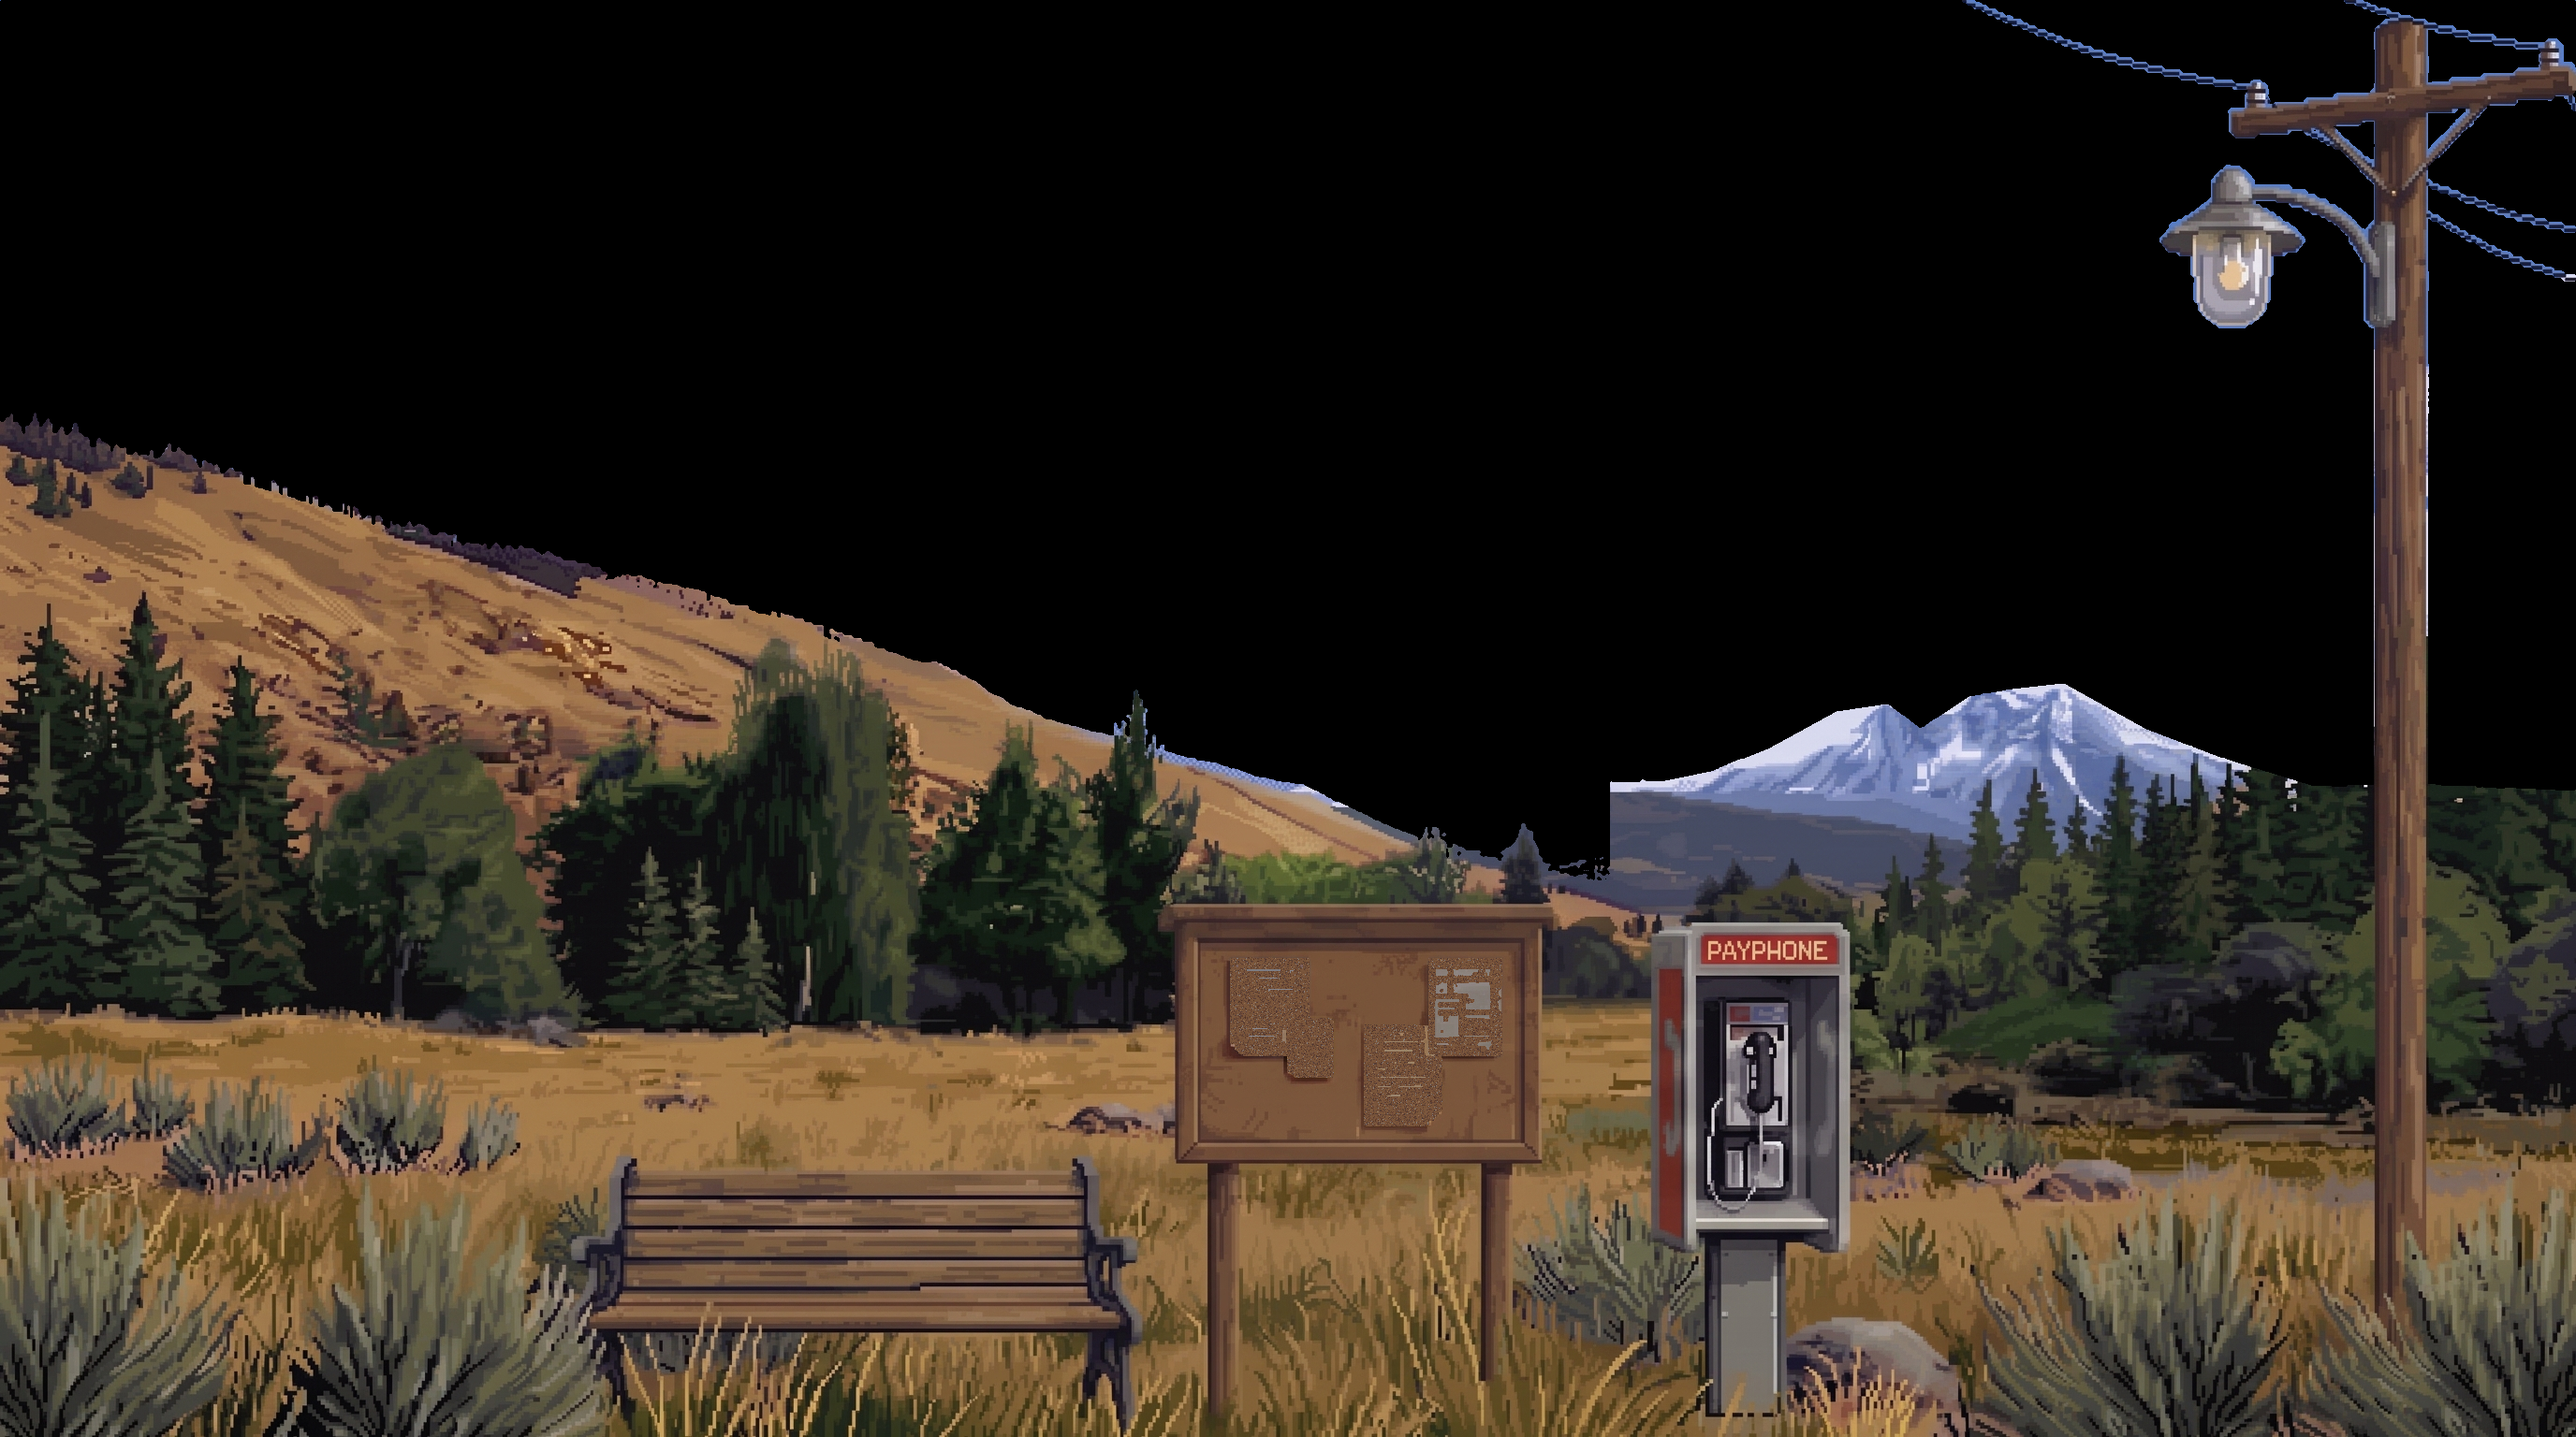
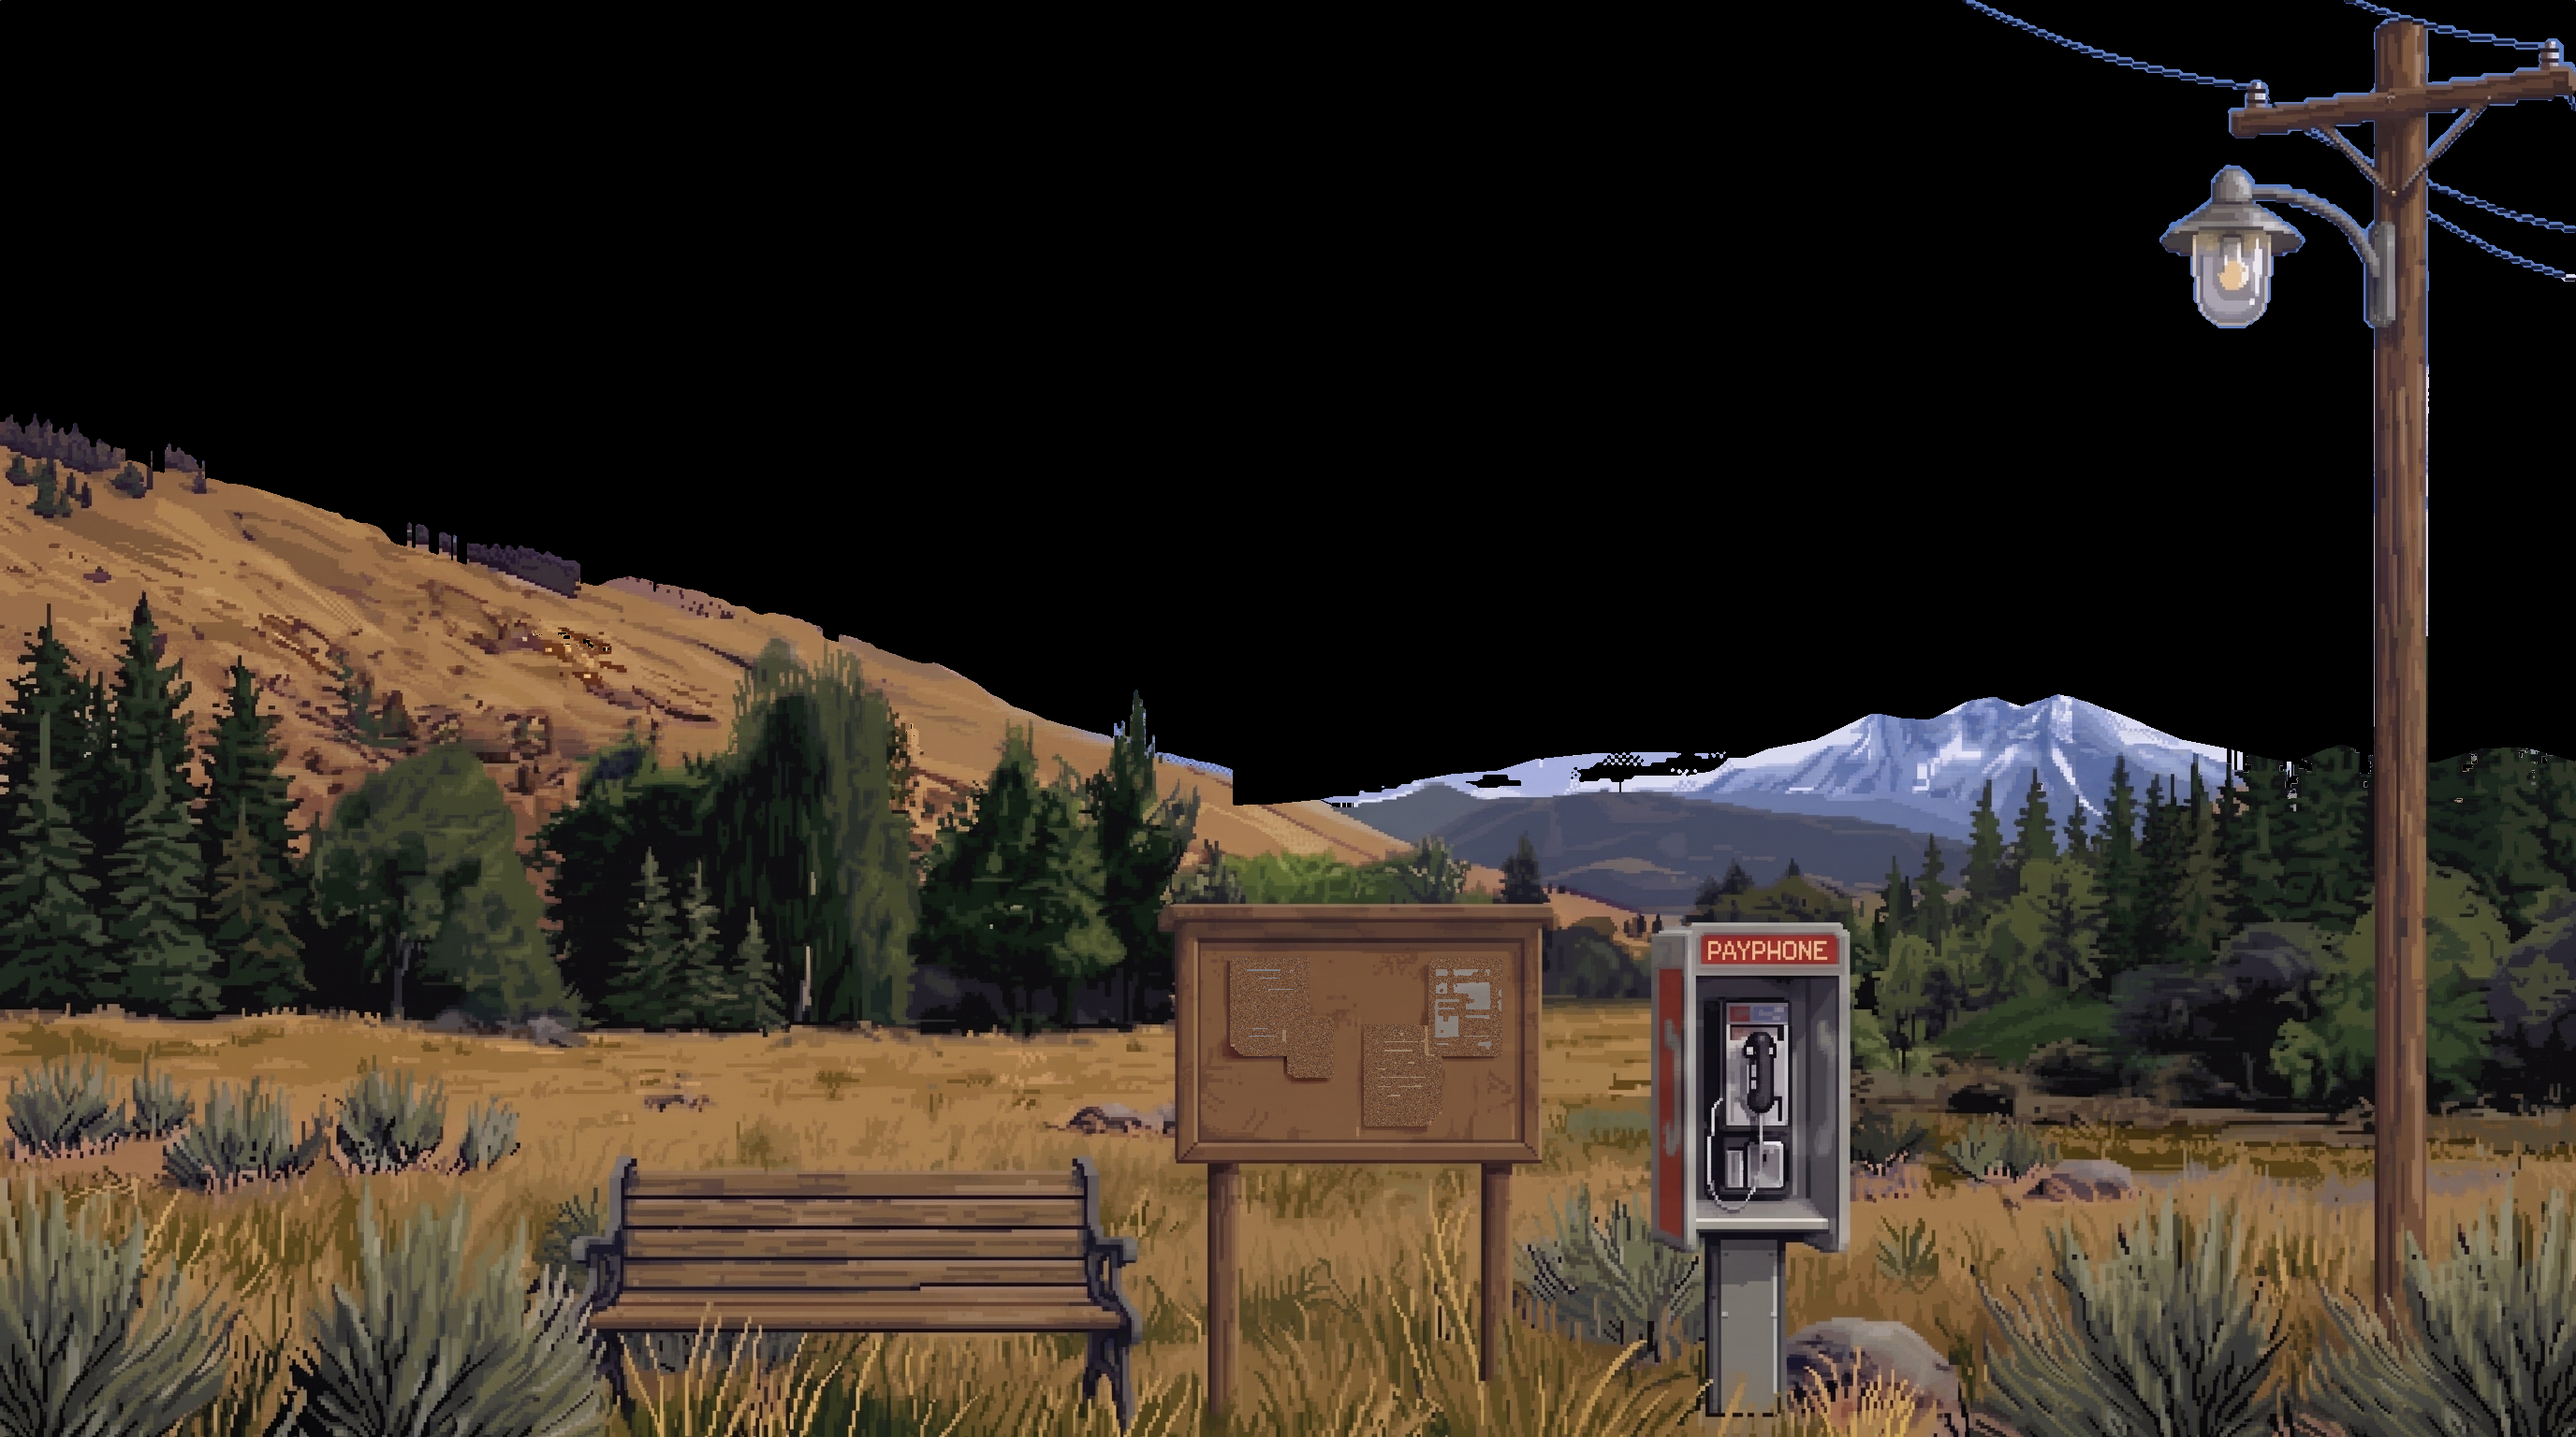
Bring back Dean Stone; clean the crest cloud and tree-gap cloud
Two config values (far_x, farhill_x) had been left in the small painting's coordinates
after the rescale, so the crest rule ran only over the left fifth of the image and Sentinel's
slope was split into two layers mid-hill. Dean Stone's skyline, its hazy shoulder and the
peak are now hand-traced on the full-size painting; the peak polygon follows that trace; a
lavender "hazy ridge" class keeps the distant ranges out of the sky test; sky-colored pixels
under the crest are sky over a deeper band across the ranges.

Sentinel's crest carries semi-transparent painted cloud: the true crest is found per column
where the neighborhood turns mostly tan, everything above it is sky and cloud-colored pixels
just below it are repainted from the nearest clean hillside pixel in the column. Pale pixels
between tree crowns are sky when what lies below them is foliage, snow when it is rock, judged
on the scene painting (the prop-less export differs around the props).

Dean Stone's layer gets a small contrast lift (LAYERS.pop in terrain.js).

Claude-Session: https://claude.ai/code/session_017uG7MLuTApwrxSRPSGFBpr

diff --git a/src/render/terrain.js b/src/render/terrain.js
@@ -15,7 +15,7 @@ const LAYERS = {
   // meltHours: how many hours above freezing it takes a dusting to melt off the whole layer,
   // bottom up; the high forested range (Dean Stone) holds it longest.
   [LAYER.PEAK]:    { depth: 1.0, horizon: -4.0, snowBias: 0.0, hill: true, meltHours: 16 },
-  [LAYER.RANGE]:   { depth: 0.75, horizon: -2.6, snowBias: -0.05, hill: true, meltHours: 9.5 },
+  [LAYER.RANGE]:   { depth: 0.75, horizon: -2.6, snowBias: -0.05, hill: true, meltHours: 9.5, pop: 1.18 },   // Dean Stone: a little more contrast than painted
   [LAYER.FARHILL]: { depth: 0.5, horizon: -2.4, snowBias: -0.12, hill: true, meltHours: 5 },
   [LAYER.FLANK]:   { depth: 0.3, horizon: -4.2, snowBias: -0.15, hill: true, backlitAM: true, meltHours: 6.5 },   // Mount Sentinel: sunset glow on the face; at dawn the sun is behind it
   [LAYER.TREES]:   { depth: 0.22, horizon: 0.0, snowBias: -0.1, hill: true, meltHours: 4.5 },
@@ -173,6 +173,7 @@ export function renderTerrain(img, env, assets) {
         }
       }
 
+      if (L.pop && !isProp) { const mid = 118; c = [mid + (c[0] - mid) * L.pop, mid + (c[1] - mid) * L.pop, mid + (c[2] - mid) * L.pop]; }
       c = quantRGB(c, 9, d);
       const persp = layer === LAYER.NEAR ? nearHaze : P.persp;
       const fog = layer === LAYER.NEAR ? fogK * 0.78 : fogK;

diff --git a/tools/build_backdrop.py b/tools/build_backdrop.py
@@ -67,6 +67,12 @@ def clear_cork(rgb, cork):
     return out
 
 
+def boxcount(mask, rad, yy, xx, H, W):
+    """Number of true pixels in the (2*rad+1) square window around each pixel."""
+    ii = np.pad(np.cumsum(np.cumsum(mask.astype(np.int32), 0), 1), ((1, 0), (1, 0)))
+    y0 = np.clip(yy - rad, 0, H); y1 = np.clip(yy + rad + 1, 0, H); x0 = np.clip(xx - rad, 0, W); x1 = np.clip(xx + rad + 1, 0, W)
+    return ii[y1, x1] - ii[y0, x1] - ii[y1, x0] + ii[y0, x0]
+
 def fill_holes(mask, box):
     """Inside one box, mark as prop any non-prop pixel not connected to the box's border."""
     x0, y0, x1, y1 = box
@@ -156,7 +162,8 @@ def main():
     # the config has one, else from a column scan of the prop-less painting.
     br, bg, bb = [bare_np[..., i].astype(int) for i in range(3)]
     blum = 0.299 * br + 0.587 * bg + 0.114 * bb
-    skyish = (bb > 176) | (blum > 170)
+    ridgey = (bb > br + 35) & (br < 195) & (blum < 200)          # hazy lavender of a distant range
+    skyish = ((bb > 176) | (blum > 170)) & ~ridgey
     if cfg.get('skyline'):
         # the traced line, raised wherever a scan finds hillside or trees above it
         top = polyline_y(pts(cfg['skyline']), W)
@@ -182,14 +189,55 @@ def main():
             hit = (run >= 6 * k) & (top == H)
             top[hit] = y - (6 * k - 1)
         top = top.astype(float)
-    sky = skyish & (yy < top[None, :] + 8 * k) & (~peak)
+    # sky-colored pixels just under the traced crest are sky (clouds resting on a ridge, gaps
+    # between tree tips); the band is deeper across the distant ranges, where the snowy summits
+    # are protected by the peak polygon
+    band = np.where(np.arange(W) >= far_x, 48 * k, 8 * k)
+    sky = skyish & (yy < top[None, :] + band[None, :]) & (~peak)
     if cfg.get('skyline'):
         # left of the ranges, everything above the first real hillside row that is not hillside is
         # sky: painted cloud tufts sitting on Sentinel's crest go with the sky
-        hill = majority(tan | green | (dark & (yy > top[None, :] - 24 * k)), 4)
-        sky |= (~hill) & (yy < scan[None, :]) & (xx < far_x) & (~peak)
+        # Sentinel's crest carries semi-transparent painted cloud. Per column, the true crest is
+        # where the 9x9 window turns mostly tan; everything above it is sky, and cloud-colored
+        # pixels just below it are repainted from the clean hillside further down.
+        r4 = 4 * k
+        tanfrac = boxcount(tan, r4, yy, xx, H, W) / float((2 * r4 + 1) ** 2)
+        # the crest is searched only a little below the first solid hillside/tree row (scan), so
+        # a column that goes sky, trees, meadow keeps its trees
+        crest = np.array(scan, int).copy()
+        for x in range(min(W, far_x)):
+            lo = max(0, int(top[x]) - 40 * k); hi = min(H, int(scan[x]) + 24 * k)
+            hit = np.nonzero(tanfrac[lo:hi, x] >= 0.6)[0]
+            crest[x] = lo + hit[0] if len(hit) else int(scan[x])
+        leftside = (np.arange(W) < far_x)[None, :]
+        sky |= (yy < crest[None, :]) & leftside & (~peak)
+        cloudy = skyish | ((bb > br + 30) & (blum > 120) & ~tan)
+        strip = leftside & (yy >= crest[None, :]) & (yy < crest[None, :] + 40 * k) & cloudy & ~tan
+        # repaint each strip pixel from the nearest clean tan pixel below it in the same column
+        nxt = np.full((H, W), H - 1, int)
+        for y in range(H - 2, -1, -1):
+            nxt[y] = np.where(tan[y + 1], y + 1, nxt[y + 1])
+        ys_, xs_ = np.nonzero(strip)
+        src = np.minimum(H - 1, nxt[ys_, xs_] + np.random.RandomState(3).randint(0, 6 * k, len(ys_)))
+        rgb[ys_, xs_] = rgb[src, xs_]
+        top = np.where(leftside[0], np.minimum(top, crest), top)
+        if args.debug: np.save(os.path.join(args.debug, 'crest.npy'), crest); np.save(os.path.join(args.debug, 'scan.npy'), scan); np.save(os.path.join(args.debug, 'trace.npy'), polyline_y(pts(cfg['skyline']), W))
     sky |= (yy < top[None, :] - 1) & (~peak)
     sky = majority(sky)
+    # pale patches below the crest are cloud between tree crowns (sky) or snow on a summit
+    # (terrain): decide by the neighborhood, foliage around it vs rock around it
+    # (judged on the scene painting: the prop-less export can differ around the props)
+    tan0, green0, dark0, navy0 = classify(rgb)
+    sr0, sg0, sb0 = [rgb[..., i].astype(int) for i in range(3)]
+    ridgey0 = (sb0 > sr0 + 35) & (sr0 < 195) & (0.299 * sr0 + 0.587 * sg0 + 0.114 * sb0 < 200)
+    # what a pale pixel rests on decides it: the first foliage or rock pixel below it in its column
+    cls = np.where(green0 | dark0, 1, np.where(ridgey0 | navy0, 2, 0)).astype(np.int8)
+    below = np.zeros((H, W), np.int8)
+    for y in range(H - 2, -1, -1):
+        below[y] = np.where(cls[y + 1] != 0, cls[y + 1], below[y + 1])
+    slum0 = 0.299 * sr0 + 0.587 * sg0 + 0.114 * sb0
+    skyish_s = ((sb0 > 176) | (slum0 > 170)) & ~ridgey0
+    sky |= skyish_s & (below == 1) & (yy < top[None, :] + 90 * k) & (yy >= ridge_min_y)
     sky &= ~prop
 
     # --- layers, far to near
@@ -198,7 +246,7 @@ def main():
     foliage = majority(green | dark)
     sr, sg, sb = [rgb[..., i].astype(int) for i in range(3)]
     slum = 0.299 * sr + 0.587 * sg + 0.114 * sb
-    navyish = majority(navy | ((sb < 176) & (sb > sr + 8) & (slum < 150) & (yy >= ridge_min_y)), 5)
+    navyish = majority(navy | ((sb < 176) & (sb > sr + 8) & (slum < 150) & (yy >= ridge_min_y)) | ((sb > sr + 35) & (sr < 195) & (slum < 200) & (xx >= far_x) & (yy >= ridge_min_y)), 5)
     above_meadow = yy < meadow[None, :]
     farzone = (xx >= far_x) & (yy < far_mid[None, :]) & (~foliage)
     L_PEAK, L_RANGE, L_FARHILL, L_FLANK, L_TREES, L_NEAR = 1, 2, 3, 4, 5, 6
@@ -207,7 +255,8 @@ def main():
     layer[mid & ~foliage & (xx < farhill_x)] = L_FLANK
     layer[mid & ~foliage & (xx >= farhill_x)] = L_FARHILL
     layer[mid & foliage] = L_TREES
-    layer[farzone & ~navyish] = L_FARHILL
+    layer[farzone & ~navyish & (xx >= farhill_x)] = L_FARHILL
+    layer[farzone & ~navyish & (xx < farhill_x)] = L_FLANK
     layer[(farzone | mid | peak) & navyish & ~foliage] = L_RANGE
     layer[peak & ~navyish] = L_PEAK
     layer[~above_meadow] = L_NEAR
